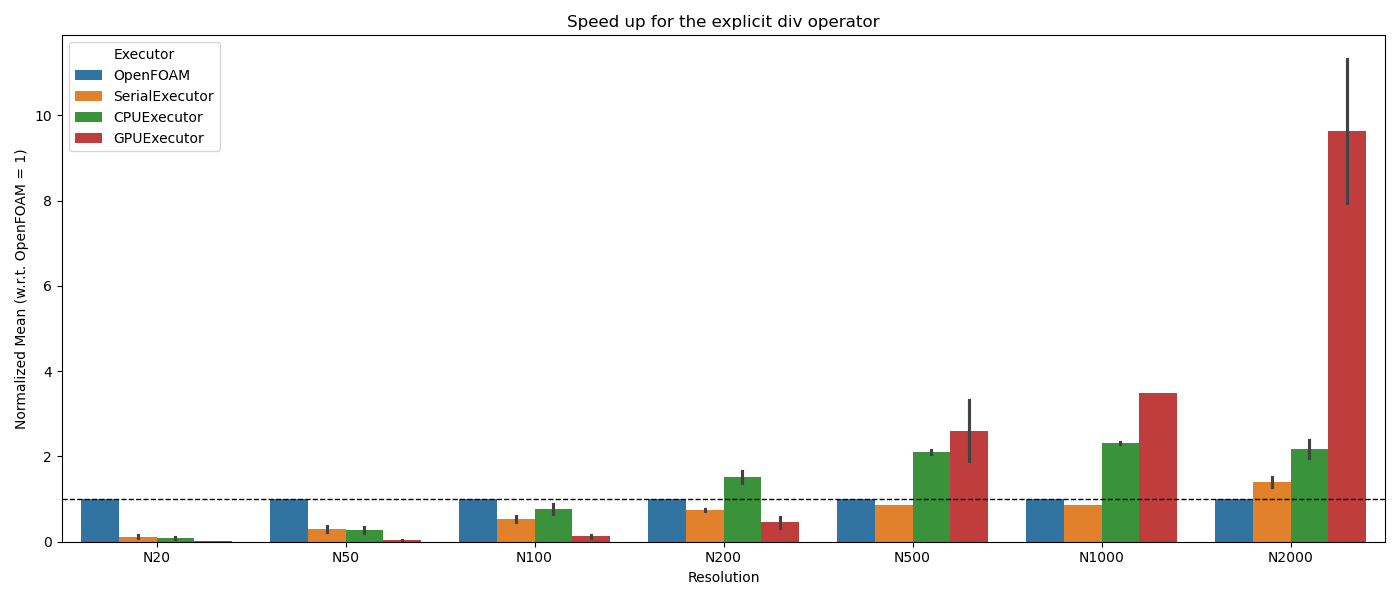
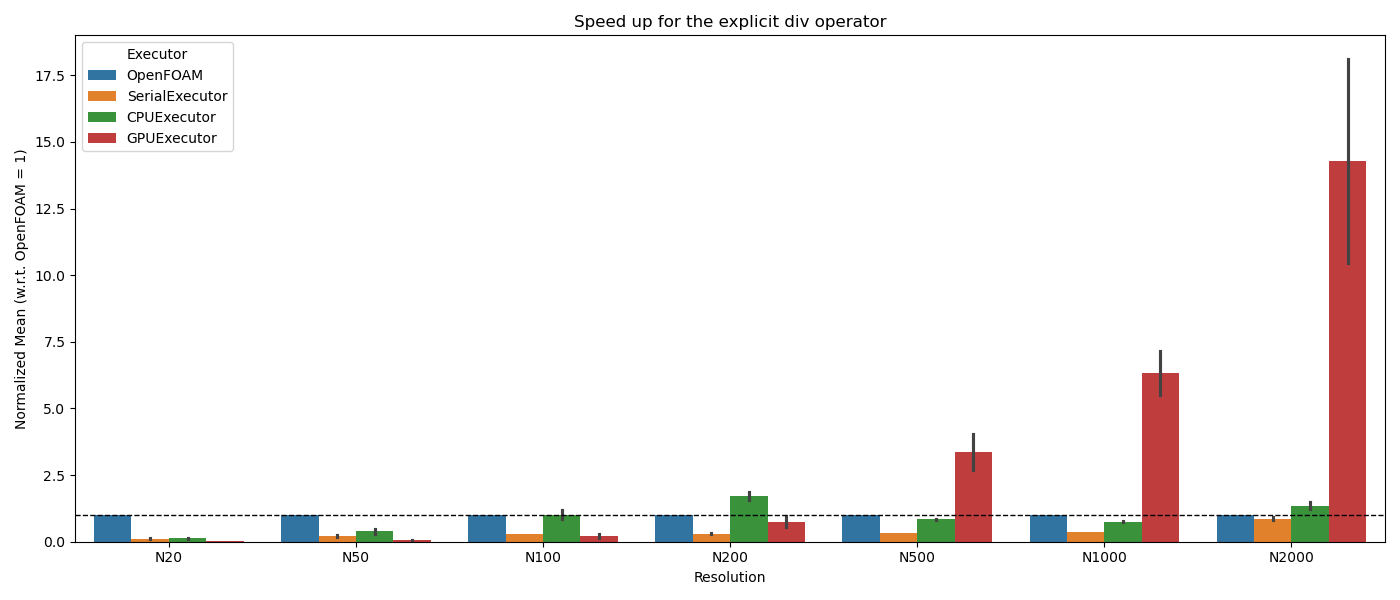
added benchmkar results

diff --git a/benchmarks/benchmarkSuite/explicitOperators/plotResults.py b/benchmarks/benchmarkSuite/explicitOperators/plotResults.py
@@ -21,10 +21,10 @@ def normalize_all_by_openfoam(group):
 
 
 # Apply corrected normalization across Geometry + Resolution
-df_fixed_normalization = df.groupby(["Geometry", "Resolution"], group_keys=False).apply(
+df_fixed_normalization = df.groupby(["TestCase","Geometry", "Resolution"], group_keys=False).apply(
     normalize_all_by_openfoam
 )
-
+#%%
 # Plot using seaborn
 df_fixed_normalization["Label"] = (
     df_fixed_normalization["Geometry"]
@@ -42,48 +42,53 @@ df_fixed_normalization["Speed up"] = 1 / df_fixed_normalization["Normalized_Mean
 # )
 # %%
 # Plot 3D cube
-df_fixed_normalization_3dCube = df_fixed_normalization[df_fixed_normalization["Geometry"] == "3DCube"]
-resolution_order = ["N10", "N20", "N50", "N100", "N200"]
-df_fixed_normalization_3dCube["Resolution"] = pd.Categorical(
-    df_fixed_normalization_3dCube["Resolution"],
-    categories=resolution_order,
-    ordered=True
-)
+def plot(df_fixed_normalization, testcase):
+    # Filter the DataFrame for the specific test case
+    df = df_fixed_normalization[df_fixed_normalization["TestCase"] == testcase]
+    df_fixed_normalization_3dCube = df[df["Geometry"] == "3DCube"]
+    resolution_order = ["N10", "N20", "N50", "N100", "N200"]
+    df_fixed_normalization_3dCube["Resolution"] = pd.Categorical(
+        df_fixed_normalization_3dCube["Resolution"],
+        categories=resolution_order,
+        ordered=True
+    )
 
-plt.figure(figsize=(14, 6))
-sns.barplot(
-    data=df_fixed_normalization_3dCube,
-    x="Resolution",
-    y="Speed up",
-    hue="Executor"
-)
-# plt.xticks(rotation=90)
-plt.axhline(1, color='black', linestyle='--', linewidth=1)  # Add baseline
-plt.ylabel("Normalized Mean (w.r.t. OpenFOAM = 1)")
-plt.title("Speed up for the explicit div operator")
-plt.tight_layout()
-plt.savefig("results/3DCube.png")
-plt.show()
+    plt.figure(figsize=(14, 6))
+    sns.barplot(
+        data=df_fixed_normalization_3dCube,
+        x="Resolution",
+        y="Speed up",
+        hue="Executor"
+    )
+    # plt.xticks(rotation=90)
+    plt.axhline(1, color='black', linestyle='--', linewidth=1)  # Add baseline
+    plt.ylabel("Normalized Mean (w.r.t. OpenFOAM = 1)")
+    plt.title(f"3DCube: Speed up for the explicit {testcase}")
+    plt.tight_layout()
+    plt.savefig("results/{testcase}_3DCube.png")
+
+    df_fixed_normalization_2DSquare = df[df["Geometry"] == "2DSquare"]
+    resolution_order = ["N20", "N50", "N100", "N200", "N500", "N1000", "N2000"]
+    df_fixed_normalization_2DSquare["Resolution"] = pd.Categorical(
+        df_fixed_normalization_2DSquare["Resolution"],
+        categories=resolution_order,
+        ordered=True
+    )
+    plt.figure(figsize=(14, 6))
+    sns.barplot(
+        data=df_fixed_normalization_2DSquare,
+        x="Resolution",
+        y="Speed up",
+        hue="Executor"
+    )
+    # plt.xticks(rotation=90)
+    plt.axhline(1, color='black', linestyle='--', linewidth=1)  # Add baseline
+    plt.ylabel("Normalized Mean (w.r.t. OpenFOAM = 1)")
+    plt.title(f"2DSquare: Speed up for the explicit {testcase}")
+    plt.tight_layout()
+    plt.savefig(f"results/{testcase}_2DSquare.png")
+    plt.show()
 # %%
-df_fixed_normalization_2DSquare = df_fixed_normalization[df_fixed_normalization["Geometry"] == "2DSquare"]
-resolution_order = ["N20", "N50", "N100", "N200", "N500", "N1000", "N2000"]
-df_fixed_normalization_2DSquare["Resolution"] = pd.Categorical(
-    df_fixed_normalization_2DSquare["Resolution"],
-    categories=resolution_order,
-    ordered=True
-)
-plt.figure(figsize=(14, 6))
-sns.barplot(
-    data=df_fixed_normalization_2DSquare,
-    x="Resolution",
-    y="Speed up",
-    hue="Executor"
-)
-# plt.xticks(rotation=90)
-plt.axhline(1, color='black', linestyle='--', linewidth=1)  # Add baseline
-plt.ylabel("Normalized Mean (w.r.t. OpenFOAM = 1)")
-plt.title("Speed up for the explicit div operator")
-plt.tight_layout()
-plt.savefig("results/2DSquare.png")
-plt.show()
+plot(df_fixed_normalization, "GradOperator")
+plot(df_fixed_normalization, "DivOperator")
 # %%
